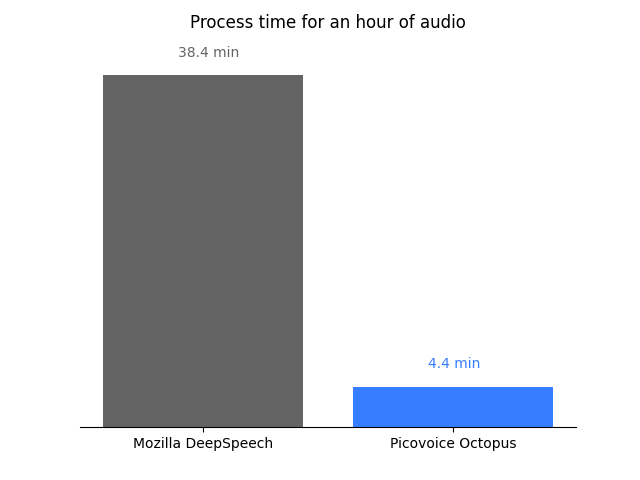
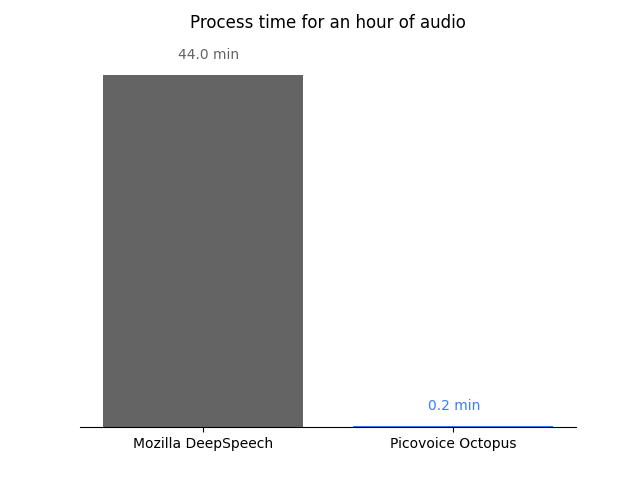
updated rtf

Changed region(s): [[0.5312, 0.75, 0.875, 0.9062], [0.2812, 0.0938, 0.375, 0.125]]

diff --git a/benchmark.py b/benchmark.py
@@ -76,14 +76,14 @@ def save(file_name, results):
         json.dump(results, f)
 
 
-def run_realtime_factor(access_key):
+def run_realtime_factor(dataset_folder, access_key):
     test_file = os.path.join(
-        os.path.abspath(os.path.dirname(__file__)),
-        'resources',
-        'engines',
-        'octopus',
-        'res/audio/multiple_keywords.wav')
-    test_file_duration_sec = 45.50
+        os.path.abspath(dataset_folder),
+        'legacy',
+        'test',
+        'sph',
+        'BillGates_2010.wav')
+    test_file_duration_sec = 1772.03
 
     commands = {
         Engines.MOZILLA_DEEP_SPEECH: {
@@ -91,7 +91,7 @@ def run_realtime_factor(access_key):
             "test": f"cd resources/engines/deep_speech/ && "
                     f"./deepspeech --model deepspeech-0.9.3-models.pbmm "
                     f"--scorer deepspeech-0.9.3-models.scorer "
-                    f"--audio {test_file}",
+                    f"--audio '{test_file}'",
         },
         Engines.PICOVOICE_OCTOPUS: {
             "build": f"cd resources/engines/octopus/ && "
@@ -99,7 +99,7 @@ def run_realtime_factor(access_key):
             "test": f"cd resources/engines/octopus/ && "
                     f"./demo/c/build/octopus_index_demo lib/linux/x86_64/libpv_octopus.so "
                     f"lib/common/octopus_params.pv '{access_key}' "
-                    f"res/audio/multiple_keywords.wav index.oif && "
+                    f"'{test_file}' ../../data/index.oif && "
                     f"./demo/c/build/octopus_search_demo lib/linux/x86_64/libpv_octopus.so "
                     f"lib/common/octopus_params.pv '{access_key}' index.oif 'picovoice'",
         }
@@ -174,7 +174,7 @@ def run(engine_name, dataset, search_phrases, access_key='', bucket_name=''):
 
 def main():
     parser = argparse.ArgumentParser()
-    parser.add_argument('--engines', nargs='+', choices=[engine.value for engine in Engines], required=True)
+    parser.add_argument('--engines', nargs='+', choices=[engine.value for engine in Engines])
     parser.add_argument('--dataset_folder', type=str, required=True)
     parser.add_argument('--access_key', type=str, default='')
     parser.add_argument('--google_bucket_name', type=str, default='')
@@ -186,8 +186,11 @@ def main():
     logging.info(f'loaded {str(dataset)} with {dataset.size_hours():.2f} hours of data')
 
     if args.realtime_factor_test:
-        run_realtime_factor(args.access_key)
+        run_realtime_factor(args.dataset_folder, args.access_key)
     else:
+        if len(args.engines) == 0:
+            print('The engine list is empty')
+            exit(1)
         for engine in args.engines:
             results = run(
                 engine_name=engine,

diff --git a/README.md b/README.md
@@ -100,10 +100,12 @@ parameter are: `MOZILLA_DEEP_SPEECH`, `GOOGLE_SPEECH_TO_TEXT`, and `PICOVOICE_OC
 For measuring the real-time factors of the offline engine, run the following command:
 
 ```bash
-python3 benchmark.py --realtime_factor_test
+python3 benchmark.py --realtime_factor_test --dataset_folder {DATASET_FOLDER} --access_key {ACCESS_KEY}
 ```
 
 ## Results
+
+The benchmarking was performed on a Linux machine running Ubuntu 20.04 with 16GB of RAM and an Intel i7-10710U CPU running at 4.7 GHz.
 
 The figure below compares the average missed detection rate of speech-to-index engines. Octopus achieves the best performance by spotting search phrases almost two times better than its closest opponent.
 
@@ -115,7 +117,7 @@ In addition, as shown by a red line, for around 1 false alarm per hour, Octopus 
 
 ![](resources/figs/false_alarm_vs_missed_detection.png)
 
-One important factor about Speech-to-Index engines is their processing speed. The figure below depicts the time an engine requires for processing an hour of audio. This means Octopus is more than 7x faster than the other offline engine.
+One important factor about Speech-to-Index engines is their processing speed. The figure below depicts the time an engine requires for processing an hour of audio.
 
 ![](resources/figs/realtime_factor_comparison.png)
 
